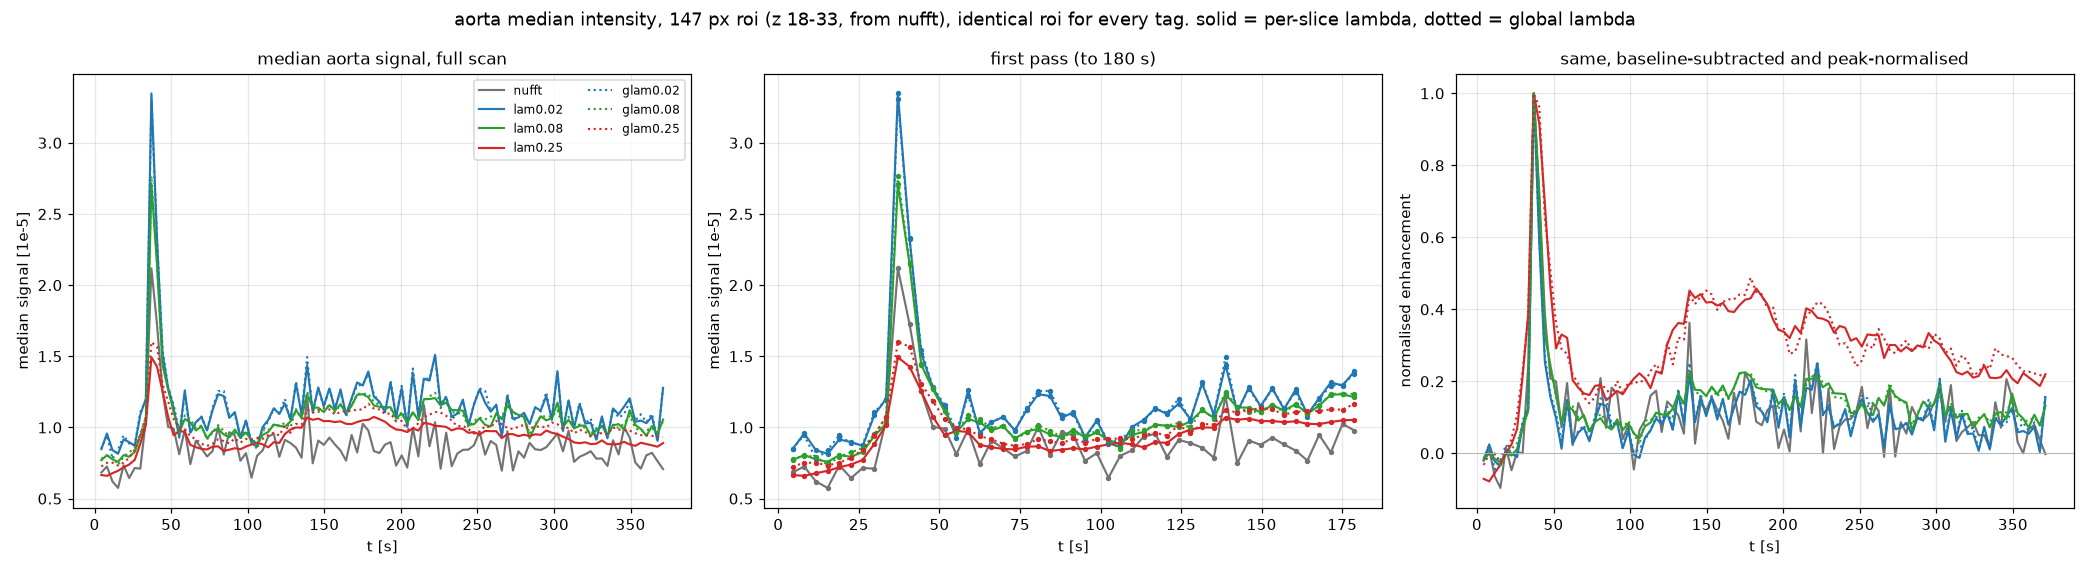
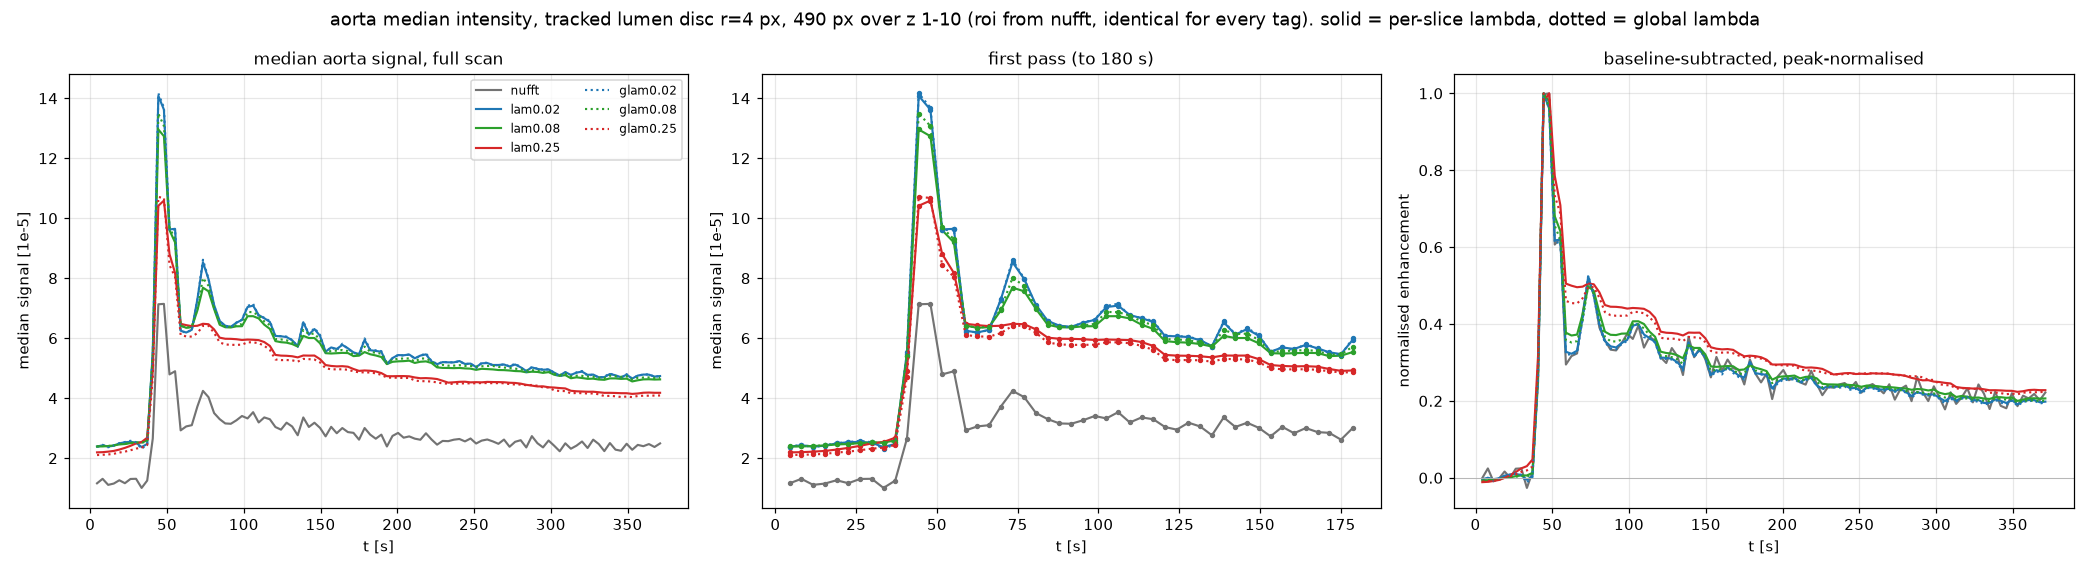
agent 2026-09-18 22:17 worker05.cluster: 8 files

diff --git a/results/dce_rerun_gv2/aorta.md b/results/dce_rerun_gv2/aorta.md
@@ -1,16 +1,25 @@
 # aorta median intensity curves, DCE_Rerun grasp v2
 
-roi: 147 px, z 18-33, centre (y=146, x=3), from **nufft** by time to peak in the 35 to 160 s window, largest blob per slice, 1 px erosion; identical roi applied to every tag
-selected component: 16 slices, median cross-section 12 px (50 mm2), centroid wander 1.5 px, median ttp 41 s
+roi: tracked lumen disc r=4 px (17 mm across), 490 px over z 1-10 (10 slices), centre (y=69, x=109), centroid wander 3.5 px, median ttp 48 s
+found on **nufft** (method-neutral) by a vessel-disc matched filter (r=5 px, fill >= 0.7) over voxels above 0.45 of the 99.9th percentile peak with ttp <= 70 s and more than 15 px inside the body, tracked in z, then the earliest median ttp of 2 tube candidates; identical roi for every tag
+a fixed lumen disc is used rather than a brightness-thresholded mask, which would bias the median toward the brightest voxels and inflate the peak
 
 | tag | baseline [1e-5] | peak [1e-5] | rel. peak | ttp [s] | plateau/peak |
 |---|---|---|---|---|---|
-| nufft | 0.71 | 2.12 | +198% | 37 | 0.09 |
-| lam0.02 | 0.90 | 3.35 | +273% | 37 | 0.08 |
-| lam0.08 | 0.81 | 2.71 | +236% | 37 | 0.12 |
-| lam0.25 | 0.72 | 1.49 | +107% | 37 | 0.26 |
-| glam0.02 | 0.89 | 3.31 | +272% | 37 | 0.09 |
-| glam0.08 | 0.80 | 2.77 | +246% | 37 | 0.12 |
-| glam0.25 | 0.75 | 1.60 | +112% | 37 | 0.27 |
+| nufft | 1.17 | 7.14 | +513% | 48 | 0.22 |
+| lam0.02 | 2.43 | 14.08 | +480% | 44 | 0.21 |
+| lam0.08 | 2.46 | 12.96 | +427% | 44 | 0.22 |
+| lam0.25 | 2.29 | 10.59 | +363% | 48 | 0.25 |
+| glam0.02 | 2.45 | 14.16 | +479% | 44 | 0.21 |
+| glam0.08 | 2.47 | 13.49 | +446% | 44 | 0.21 |
+| glam0.25 | 2.19 | 10.71 | +390% | 44 | 0.24 |
 
-files: aorta_roi_check.png (roi on anatomy, three views + peak/ttp maps), aorta_curves.png, aorta_curves.csv, aorta_roi.npz
+tube candidates (the selected one is the earliest):
+
+| centre (y, x) | slices | z range | disc fill | wander px | median ttp s | median peak |
+|---|---|---|---|---|---|---|
+| (68, 113) **selected** | 10 | 1-10 | 1.00 | 3.5 | 48.0 | 6.408e-05 |
+| (111, 95) | 13 | 14-26 | 0.88 | 1.6 | 58.9 | 4.021e-05 |
+
+files: aorta_roi_check.png (roi on anatomy, axial + both through-plane cuts + coverage and timing maps + centre track), aorta_curves.png, aorta_curves.csv, aorta_roi.npz
+override with AORTA_YX="y,x" and ZRANGE="z0,z1" if the overlay shows the disc off the vessel

diff --git a/jobs/agent/status.md b/jobs/agent/status.md
@@ -1,18 +1,17 @@
 # helios agent
 
-updated 2026-09-18 22:15:41 on worker05.cluster, job 3326244, cycle 30
+updated 2026-09-18 22:17:45 on worker05.cluster, job 3326244, cycle 31
 
 ## active
 
 | jid | script | state |
 |---|---|---|
-| 3327566 | 061_gv2_aorta | 1 PENDING None |
 
 ## done (last 20)
 
 | name | state |
 |---|---|
-| 061_gv2_aorta | 1 PENDING None |
+| 061_gv2_aorta | 1 COMPLETED 00:00:34 |
 | 060_gv2_aorta | 1 COMPLETED 00:00:38 |
 | 059_kprior_v2 | 1 COMPLETED 02:11:24, 1 COMPLETED 02:11:34, 1 COMPLETED 02:38:10, 1 COMPLETED 02:38:23 |
 | 062_claim_fig2 | 1 COMPLETED 00:00:06 |
